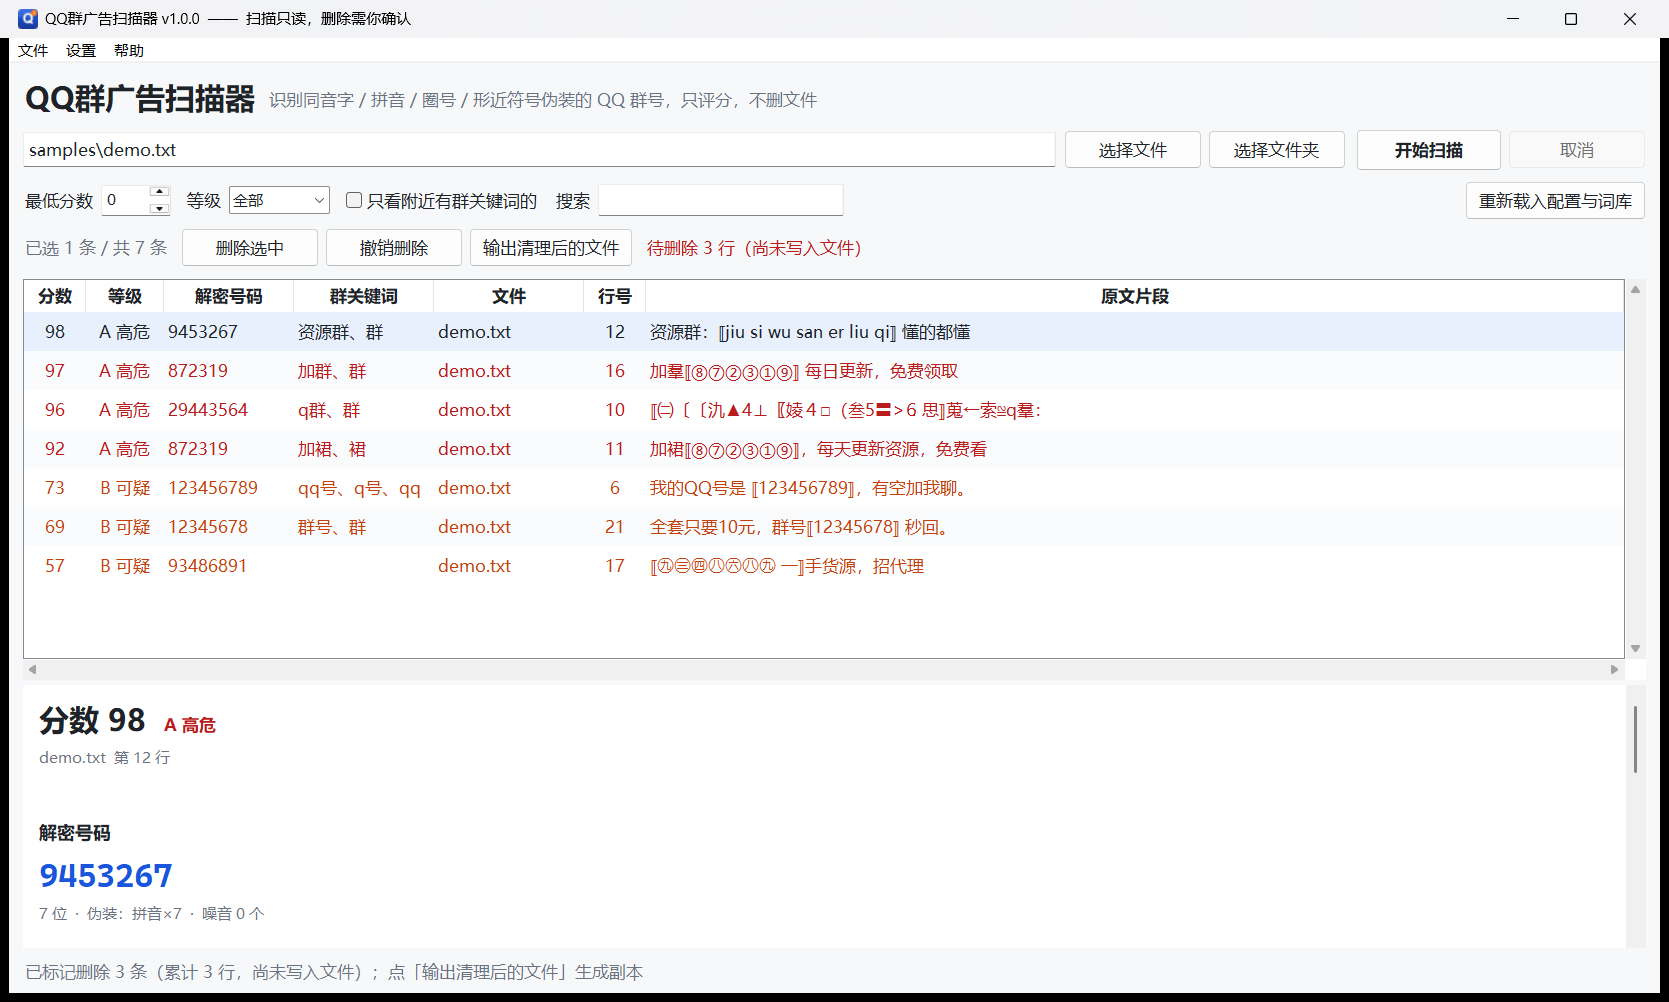
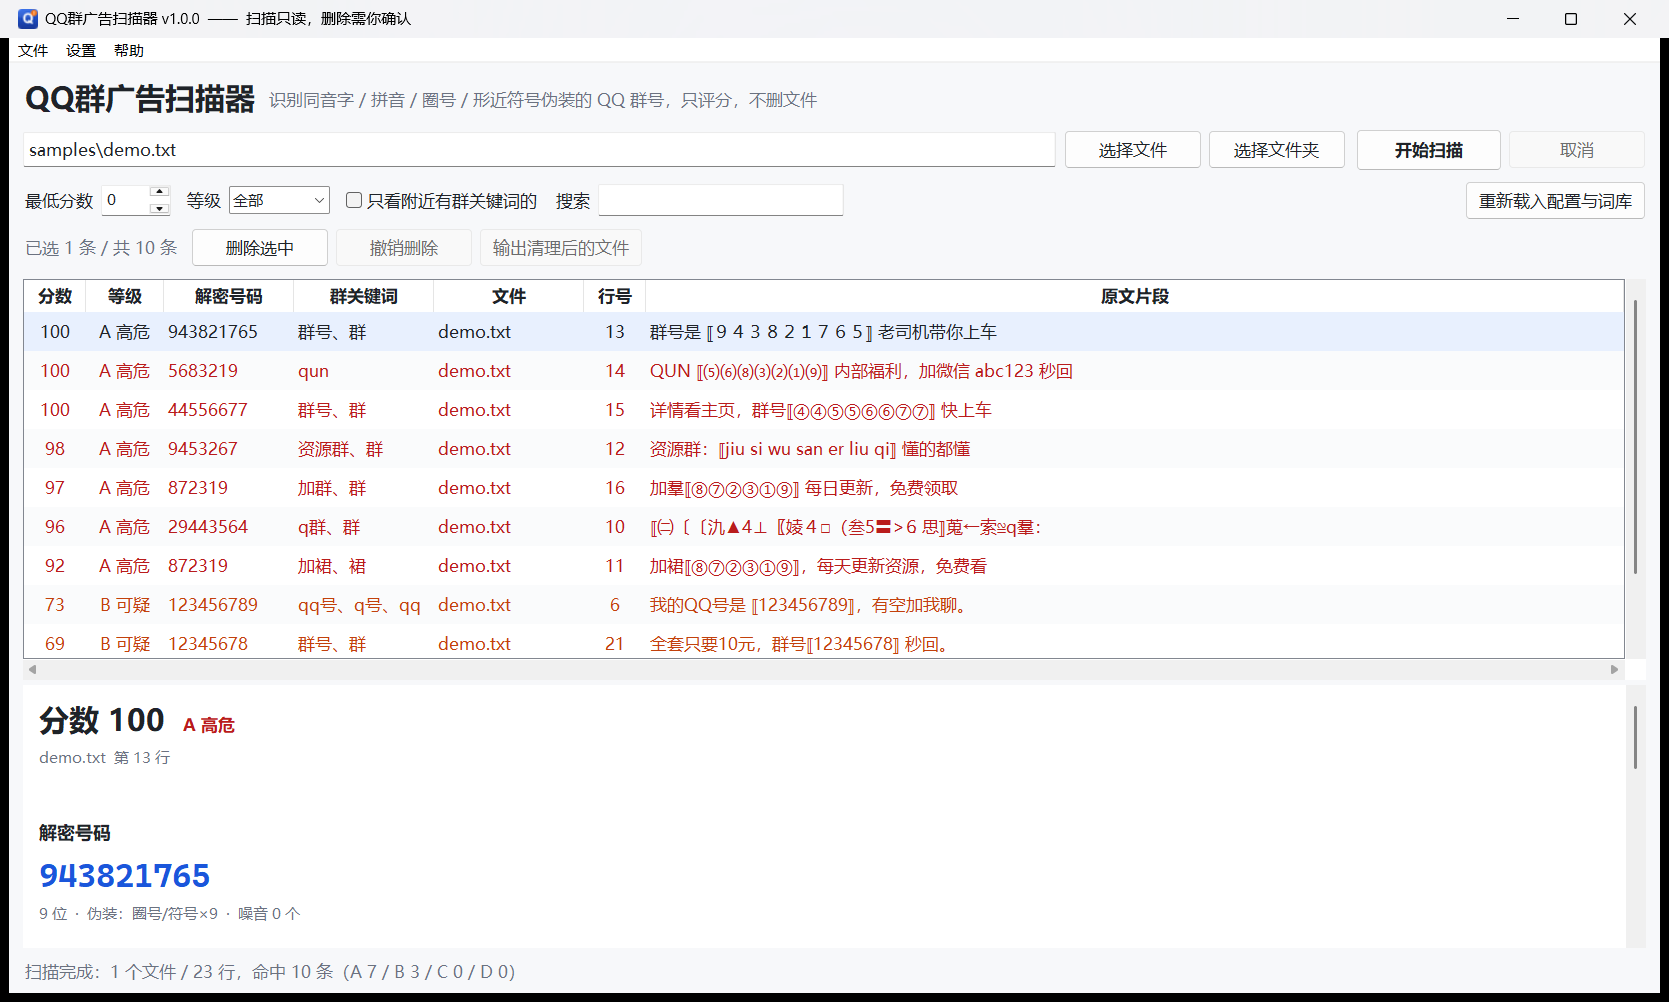
fix: 表格初始滚动位置；忽略本地构建目录

diff --git a/qqadscan/gui/app.py b/qqadscan/gui/app.py
@@ -663,6 +663,17 @@ class ScanApp(tk.Tk):
                 self.tree.selection_set(children[0])
                 self.tree.focus(children[0])
                 self._on_select()
+            # 布局完成后再校正一次滚动位置，避免前几行被藏在视口上方
+            self.after(60, self._scroll_to_top)
+
+    def _scroll_to_top(self) -> None:
+        try:
+            children = self.tree.get_children()
+            if children:
+                self.tree.see(children[0])
+            self.tree.yview_moveto(0)
+        except tk.TclError:
+            pass
 
     def _on_select(self, _event=None) -> None:
         selection = self.tree.selection()
